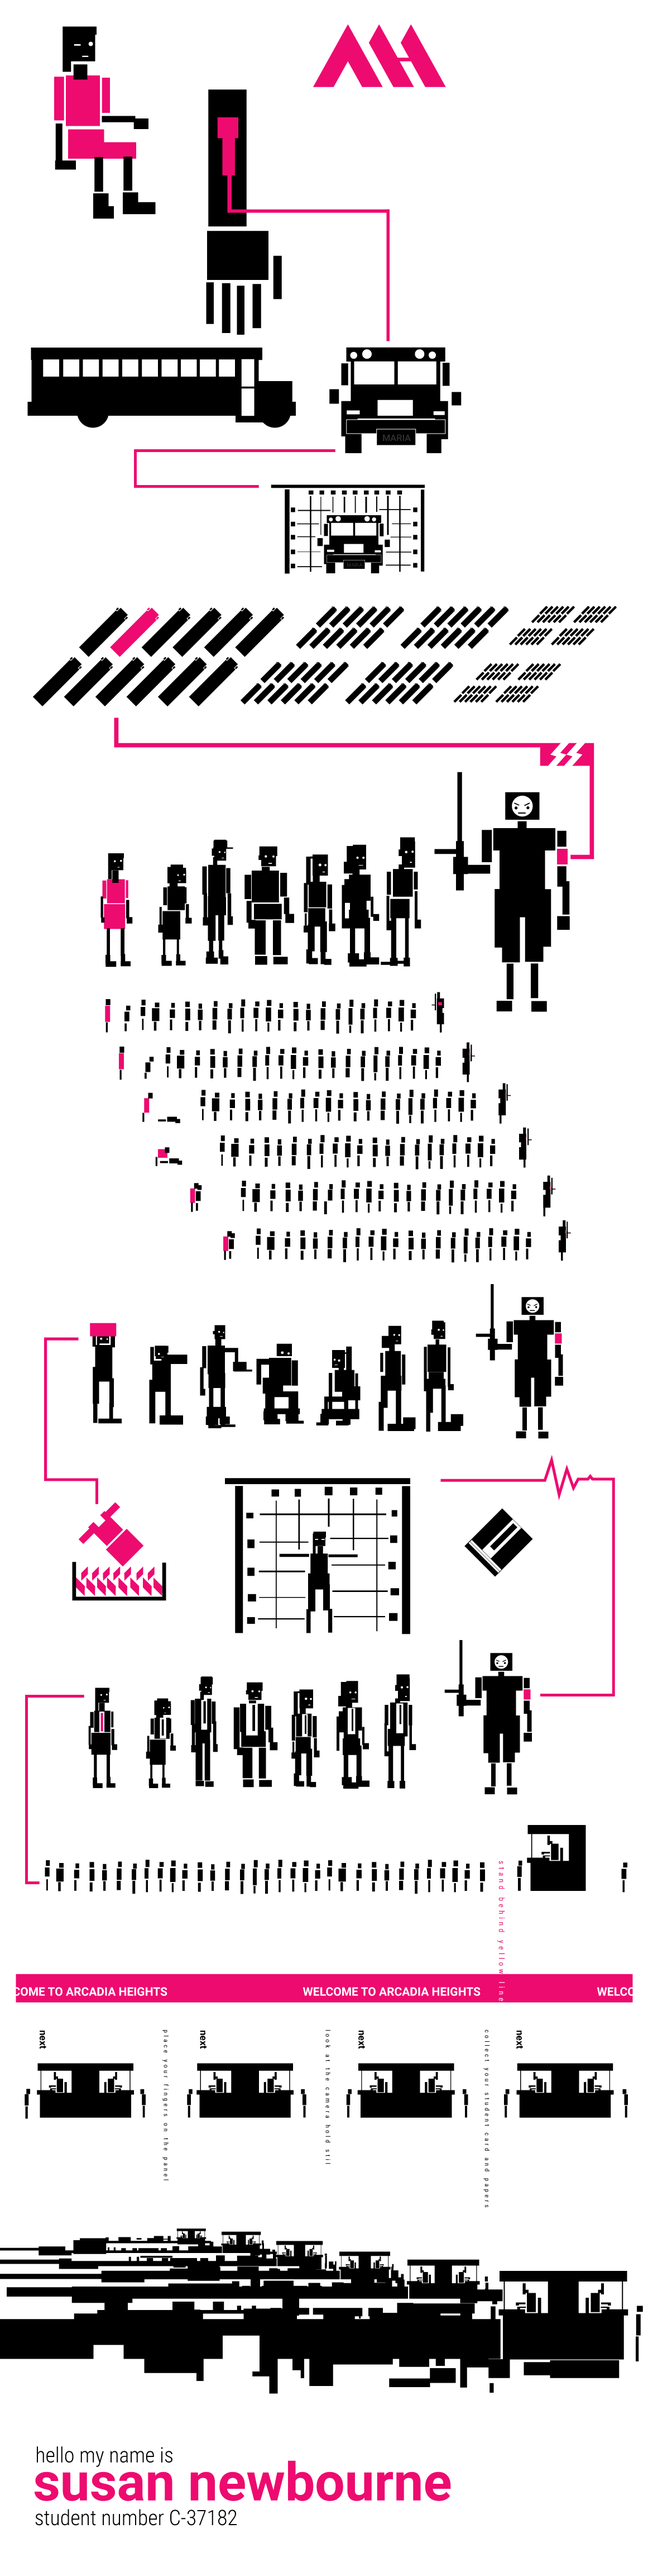
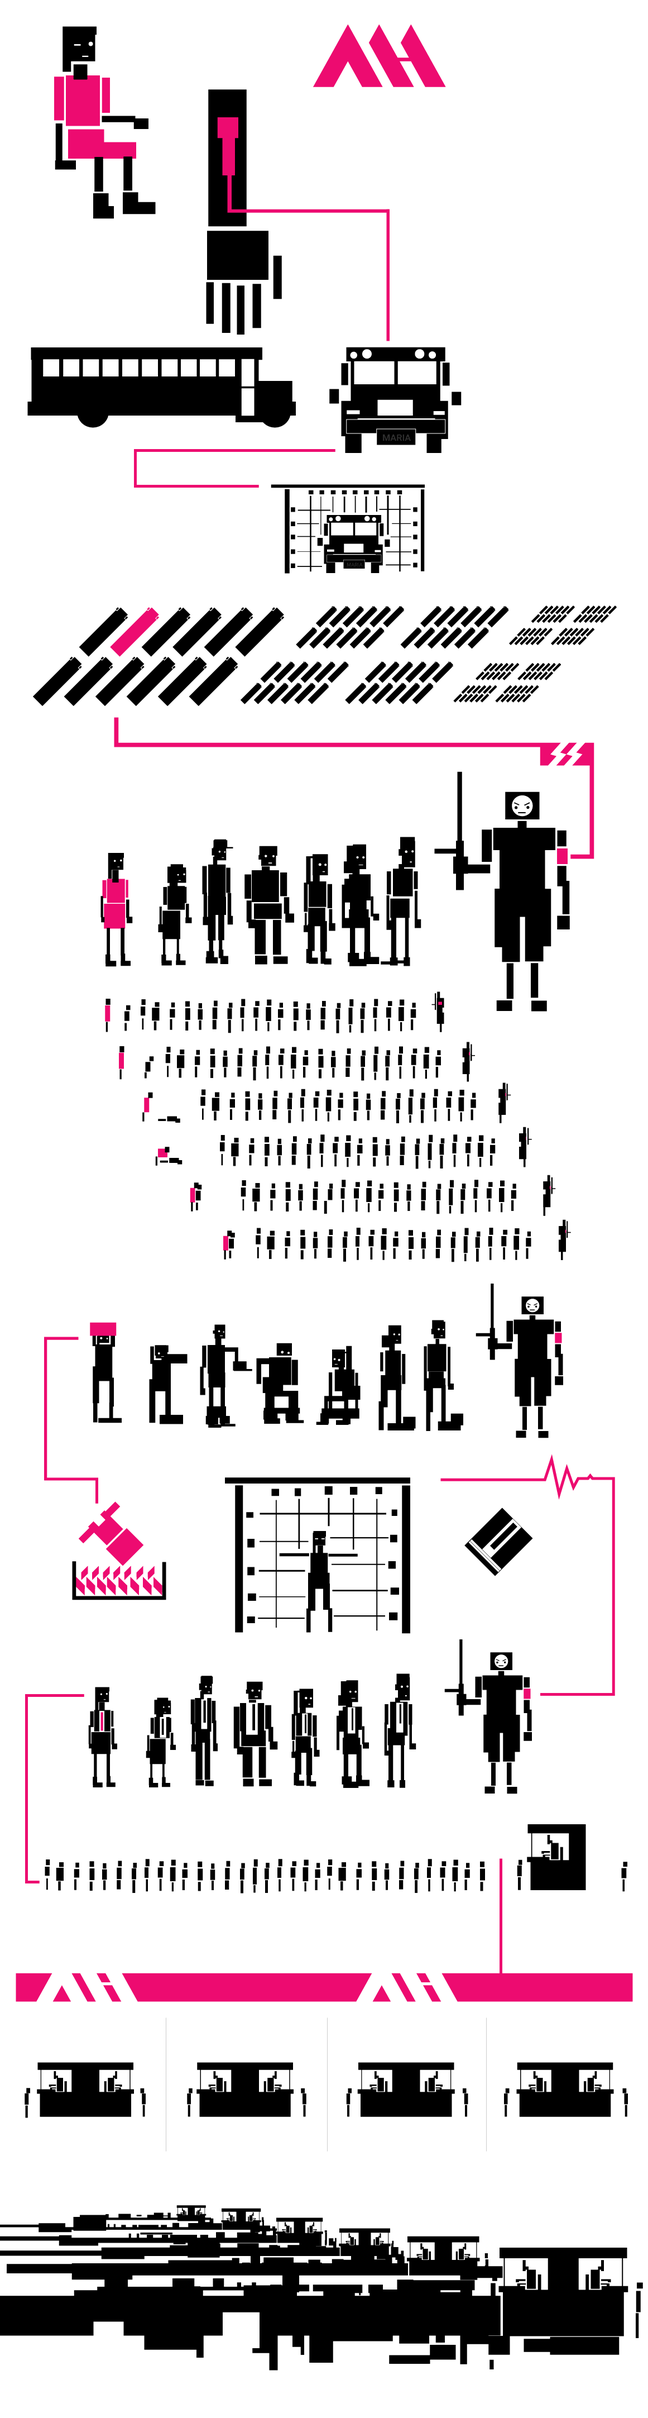
more pix and feelies link

diff --git a/story.js b/story.js
@@ -164,7 +164,9 @@ Easter eggs
 var preload_images = [
     "https://bloomengine.com/boy-electronic/adopt/i/collage_sm.jpg",
     "https://bloomengine.com/boy-electronic/i/atticus_boy_e_start.gif",
-    "https://bloomengine.com/boy-electronic/i/atticus_boy_e_start.gif"
+    "https://bloomengine.com/boy-electronic/i/atticus_boy_e_start.gif",
+    
+    "i/arcadia_arrival_03_wordless.png"
 ];
 
 inventoryTypes = [
@@ -197,7 +199,7 @@ config.gameTitle = "Arcadia Heights";
 config.gameAuthor = "Susan Newbourne | Bloomengine";
 
 //goes at menu at top
-config.metaContent = "{About|about} <a href='https://bloomengine.com/arcadiaheights/promo/arrival/' target='_blank'>Comic</a> <a href='https://bloomengine.com' target='_blank'>bloomengine.com</a>"; 
+config.metaContent = "{About|about} {Feelies|feelies}</a> <a href='https://bloomengine.com' target='_blank'>bloomengine.com</a>"; 
 
 //If you don't need an inventory system, write inventorySystem = 0;
 config.inventorySystem = 1; 
@@ -503,6 +505,30 @@ break;
 
 case "stay_updated":
     d+="Click <a href=\"https://feedburner.google.com/fb/a/mailverify?uri=bloomengine&amp;loc=en_US\" target='_blank' onClick='ga_subscribe_email();'>here</a> to receive early access to new or exclusive content.";
+break;
+
+
+/////
+case "feelies":
+    d+="<h1>Unlocked feelies:</h1>\n";
+
+    /*
+    d+=oneoff_text("arrival_comic", "<img src='https://bloomengine.com/arcadiaheights/i/arcadia_arrival_03_wordless.png' class='feelies' />");
+*/
+
+    if (f.seen_kas_excommunicated) {
+        d+="<img src='https://bloomengine.com/arcadiaheights/i/chess_club.png' class='feelies' />";
+    }
+
+    if (f.showers_lockers_seen_chalk) {
+        d+="<hr><img src='https://bloomengine.com/arcadiaheights/i/faculty.png' class='feelies' />";
+    }
+
+    d+="<img src='https://bloomengine.com/arcadiaheights/i/arcadia_arrival_03_wordless.png' class='feelies' />";
+  
+
+
+    //d+="<img src='https://bloomengine.com/arcadiaheights/i/fstop.png' class='feelies' />";
 break;
 /////
 case "start": //aka caf
